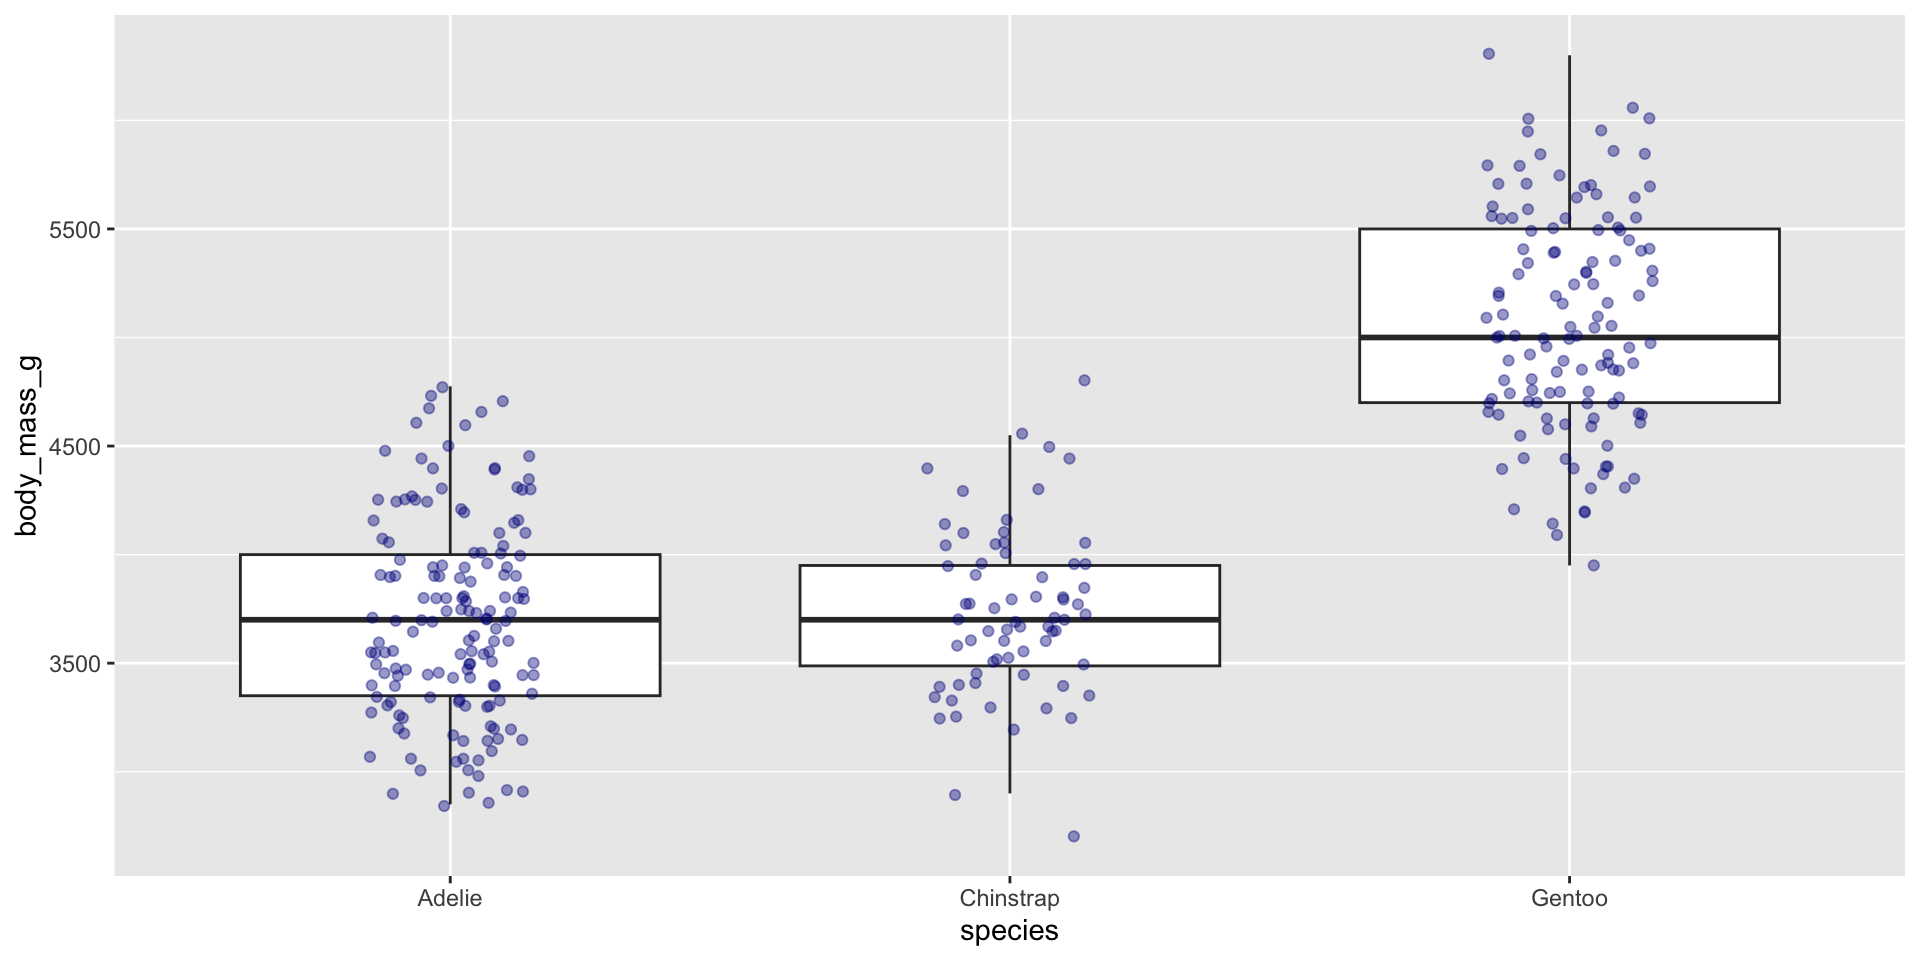
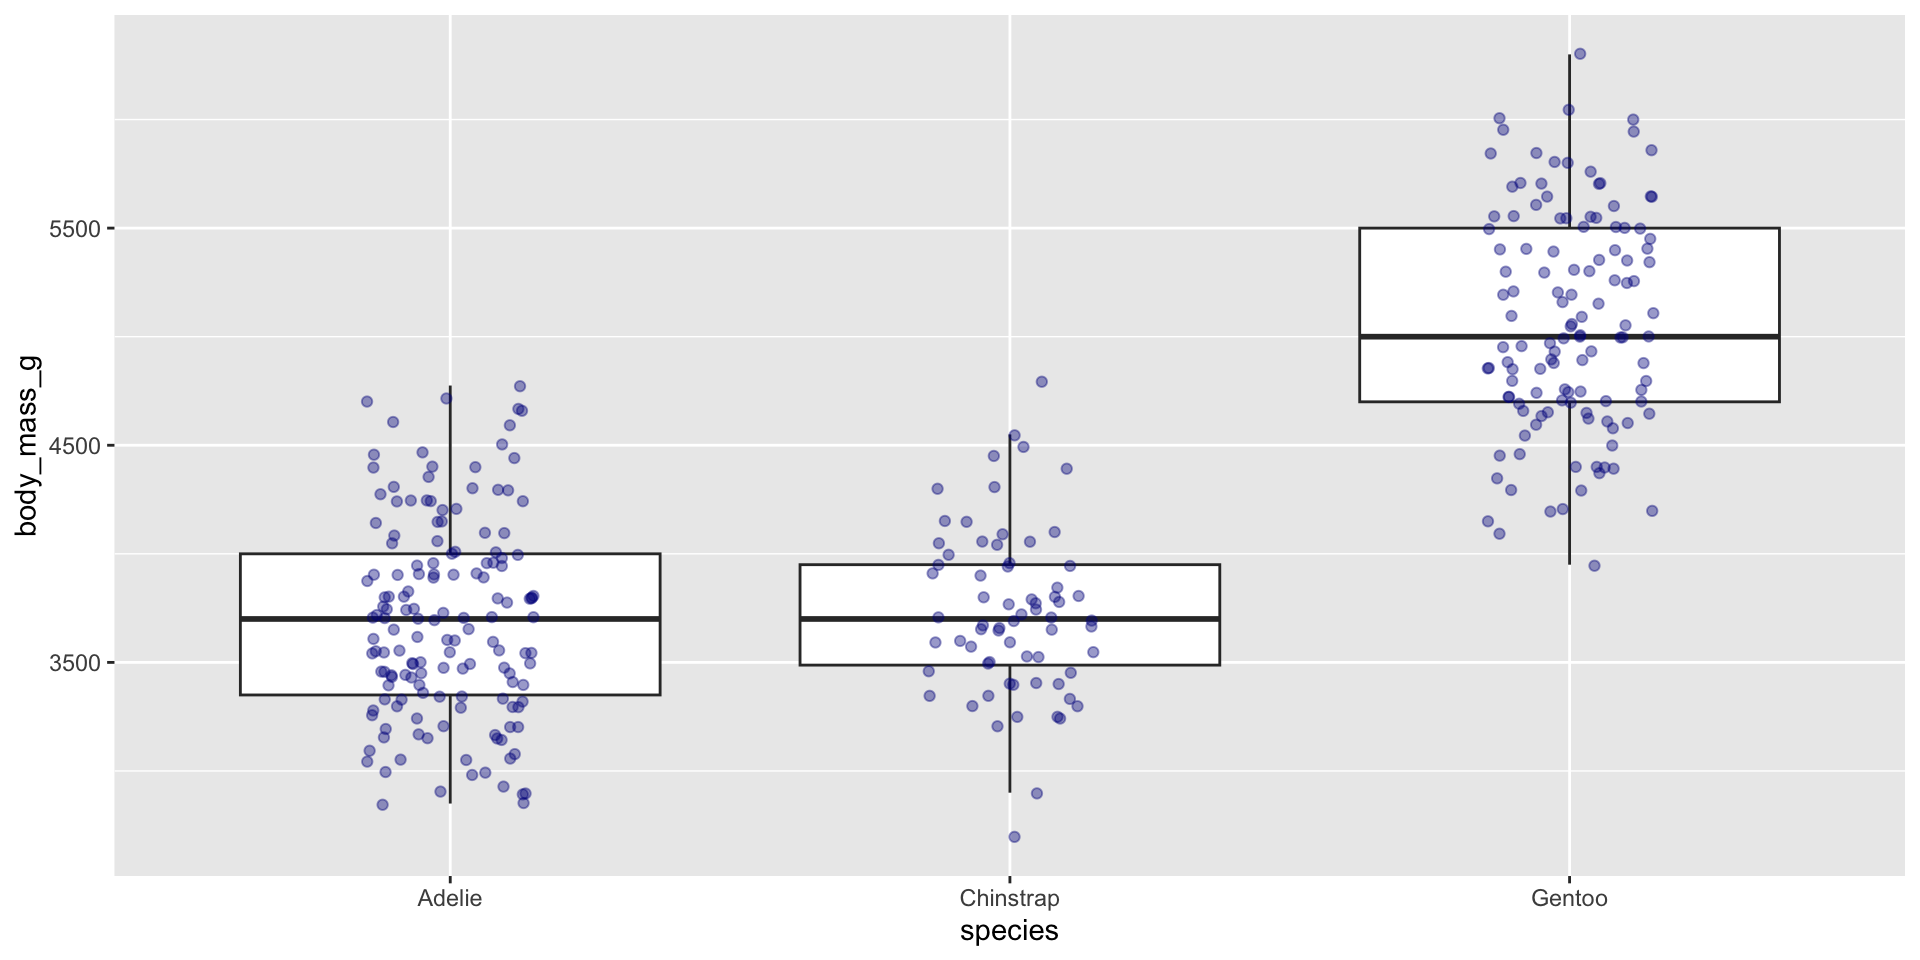
day3 data viz slides added

diff --git a/_site/index.html b/_site/index.html
@@ -177,6 +177,7 @@ window.Quarto = {
   <li><a href="#session" id="toc-session" class="nav-link" data-scroll-target="#session"><span class="header-section-number">1</span> Session</a></li>
   <li><a href="#session-1" id="toc-session-1" class="nav-link" data-scroll-target="#session-1"><span class="header-section-number">2</span> Session</a></li>
   <li><a href="#session-2" id="toc-session-2" class="nav-link" data-scroll-target="#session-2"><span class="header-section-number">3</span> Session</a></li>
+  <li><a href="#session-3" id="toc-session-3" class="nav-link" data-scroll-target="#session-3"><span class="header-section-number">4</span> Session</a></li>
   </ul>
 </nav>
     </div>
@@ -244,6 +245,15 @@ window.Quarto = {
 </section>
 <section id="session-2" class="level2" data-number="3">
 <h2 data-number="3" class="anchored" data-anchor-id="session-2"><span class="header-section-number">3</span> Session</h2>
+    <p><a href="visualization.html" target="_blank">View slides in full screen</a></p>
+       <div class="ratio ratio-16x9">
+      <iframe class="slide-deck" src="visualization.html" height="500px"></iframe>
+    </div>
+  
+<p><br> <br></p>
+</section>
+<section id="session-3" class="level2" data-number="4">
+<h2 data-number="4" class="anchored" data-anchor-id="session-3"><span class="header-section-number">4</span> Session</h2>
     <p><a href="speakers.html" target="_blank">View slides in full screen</a></p>
        <div class="ratio ratio-16x9">
       <iframe class="slide-deck" src="speakers.html" height="500px"></iframe>

diff --git a/_site/visualization.html b/_site/visualization.html
@@ -434,7 +434,7 @@ $ year              &lt;int&gt; 2007, 2007, 2007, 2007, 2007, 2007, 2007, 2007, 
 </div>
 <div class="cell">
 <div class="cell-output-display">
-<countdown-timer class="countdown" id="timer_4e83228d" minutes="5" seconds="0" update-every="1" play-sound="true" tabindex="0" style="top:0;right:0;--countdown-font-size:2em;"></countdown-timer>
+<countdown-timer class="countdown" id="timer_3ebb07fa" minutes="5" seconds="0" update-every="1" play-sound="true" tabindex="0" style="top:0;right:0;--countdown-font-size:2em;"></countdown-timer>
 </div>
 </div>
 </section>
@@ -554,7 +554,7 @@ $ year              &lt;int&gt; 2007, 2007, 2007, 2007, 2007, 2007, 2007, 2007, 
 </div>
 <div class="cell">
 <div class="cell-output-display">
-<countdown-timer class="countdown" id="timer_ade62445" minutes="5" seconds="0" update-every="1" play-sound="true" tabindex="0" style="top:0%;right:0;--countdown-font-size:2em;"></countdown-timer>
+<countdown-timer class="countdown" id="timer_5083ca05" minutes="5" seconds="0" update-every="1" play-sound="true" tabindex="0" style="top:0%;right:0;--countdown-font-size:2em;"></countdown-timer>
 </div>
 </div>
 </section>
@@ -617,7 +617,7 @@ $ year              &lt;int&gt; 2007, 2007, 2007, 2007, 2007, 2007, 2007, 2007, 
 </div>
 <div class="cell">
 <div class="cell-output-display">
-<countdown-timer class="countdown" id="timer_a1406a92" minutes="5" seconds="0" update-every="1" play-sound="true" tabindex="0" style="top:0%;right:0;--countdown-font-size:2em;"></countdown-timer>
+<countdown-timer class="countdown" id="timer_dc67d756" minutes="5" seconds="0" update-every="1" play-sound="true" tabindex="0" style="top:0%;right:0;--countdown-font-size:2em;"></countdown-timer>
 </div>
 </div>
 </section>
@@ -744,7 +744,7 @@ $ year              &lt;int&gt; 2007, 2007, 2007, 2007, 2007, 2007, 2007, 2007, 
 </div>
 <div class="cell">
 <div class="cell-output-display">
-<countdown-timer class="countdown" id="timer_3b38f1b2" minutes="5" seconds="0" update-every="1" play-sound="true" tabindex="0" style="top:0%;right:0;--countdown-font-size:2em;"></countdown-timer>
+<countdown-timer class="countdown" id="timer_41d143ec" minutes="5" seconds="0" update-every="1" play-sound="true" tabindex="0" style="top:0%;right:0;--countdown-font-size:2em;"></countdown-timer>
 </div>
 </div>
 </section>

diff --git a/_site/Session1_GettingStarted.html b/_site/Session1_GettingStarted.html
@@ -11,7 +11,7 @@
   <meta name="generator" content="quarto-1.7.30">
 
   <meta name="author" content="SARA Institute of Data Science">
-  <meta name="dcterms.date" content="2026-07-23">
+  <meta name="dcterms.date" content="2026-07-24">
   <title>SARA | The Non-Profit – Data Visualisation with R</title>
   <meta name="apple-mobile-web-app-capable" content="yes">
   <meta name="apple-mobile-web-app-status-bar-style" content="black-translucent">
@@ -215,7 +215,7 @@ SARA Institute of Data Science
 </div>
 </div>
 
-  <p class="date">2026-07-23</p>
+  <p class="date">2026-07-24</p>
 </section>
 <section id="welcome" class="slide level2 center scrollable">
 <h2>Welcome!</h2>

diff --git a/_site/Session2_GrammarOfGraphics.html b/_site/Session2_GrammarOfGraphics.html
@@ -11,7 +11,7 @@
   <meta name="generator" content="quarto-1.7.30">
 
   <meta name="author" content="SARA Institute of Data Science">
-  <meta name="dcterms.date" content="2026-07-23">
+  <meta name="dcterms.date" content="2026-07-24">
   <title>SARA | The Non-Profit – Data Visualisation with R</title>
   <meta name="apple-mobile-web-app-capable" content="yes">
   <meta name="apple-mobile-web-app-status-bar-style" content="black-translucent">
@@ -215,7 +215,7 @@ SARA Institute of Data Science
 </div>
 </div>
 
-  <p class="date">2026-07-23</p>
+  <p class="date">2026-07-24</p>
 </section>
 <section id="welcome-back" class="slide level2 center">
 <h2>Welcome back!</h2>

diff --git a/_site/Session3_PolishingAndPublishing.html b/_site/Session3_PolishingAndPublishing.html
@@ -11,7 +11,7 @@
   <meta name="generator" content="quarto-1.7.30">
 
   <meta name="author" content="SARA Institute of Data Science">
-  <meta name="dcterms.date" content="2026-07-23">
+  <meta name="dcterms.date" content="2026-07-24">
   <title>SARA | The Non-Profit – Data Visualisation with R</title>
   <meta name="apple-mobile-web-app-capable" content="yes">
   <meta name="apple-mobile-web-app-status-bar-style" content="black-translucent">
@@ -215,7 +215,7 @@ SARA Institute of Data Science
 </div>
 </div>
 
-  <p class="date">2026-07-23</p>
+  <p class="date">2026-07-24</p>
 </section>
 <section id="welcome-back" class="slide level2 center">
 <h2>Welcome back!</h2>

diff --git a/_site/intro.html b/_site/intro.html
@@ -927,7 +927,7 @@
 <h2>Your Turn</h2>
 <div class="cell">
 <div class="cell-output-display">
-<countdown-timer class="countdown" id="timer_775fbec0" minutes="15" seconds="0" update-every="1" play-sound="true" tabindex="0" style="top:0;right:0;"></countdown-timer>
+<countdown-timer class="countdown" id="timer_d613b325" minutes="15" seconds="0" update-every="1" play-sound="true" tabindex="0" style="top:0;right:0;"></countdown-timer>
 </div>
 </div>
 <ul>
@@ -1234,7 +1234,7 @@
 </ol>
 <div class="cell">
 <div class="cell-output-display">
-<countdown-timer class="countdown" id="timer_de60dc17" minutes="10" seconds="0" update-every="1" play-sound="true" tabindex="0" style="top:0;right:0;"></countdown-timer>
+<countdown-timer class="countdown" id="timer_0acd4165" minutes="10" seconds="0" update-every="1" play-sound="true" tabindex="0" style="top:0;right:0;"></countdown-timer>
 </div>
 </div>
 </section>

diff --git a/_site/practice-stats/practice-hypo.html b/_site/practice-stats/practice-hypo.html
@@ -7,7 +7,7 @@
 <meta name="viewport" content="width=device-width, initial-scale=1.0, user-scalable=yes">
 
 <meta name="author" content="Dr.&nbsp;Ajay Koli">
-<meta name="dcterms.date" content="2026-07-23">
+<meta name="dcterms.date" content="2026-07-24">
 
 <title>Practice Sheet Day 5 – SARA | The Non-Profit</title>
 <style>
@@ -255,7 +255,7 @@ window.Quarto = {
     <div>
     <div class="quarto-title-meta-heading">Published</div>
     <div class="quarto-title-meta-contents">
-      <p class="date">July 23, 2026</p>
+      <p class="date">July 24, 2026</p>
     </div>
   </div>
   

diff --git a/_site/practice/practice-hypo.html b/_site/practice/practice-hypo.html
@@ -7,7 +7,7 @@
 <meta name="viewport" content="width=device-width, initial-scale=1.0, user-scalable=yes">
 
 <meta name="author" content="Dr.&nbsp;Ajay Koli">
-<meta name="dcterms.date" content="2026-07-23">
+<meta name="dcterms.date" content="2026-07-24">
 
 <title>Practice Sheet Day 4 – SARA | The Non-Profit</title>
 <style>
@@ -246,7 +246,7 @@ window.Quarto = {
     <div>
     <div class="quarto-title-meta-heading">Published</div>
     <div class="quarto-title-meta-contents">
-      <p class="date">July 23, 2026</p>
+      <p class="date">July 24, 2026</p>
     </div>
   </div>
   

diff --git a/_site/transformation.html b/_site/transformation.html
@@ -415,7 +415,7 @@
 <h2>Your Turn</h2>
 <div class="cell">
 <div class="cell-output-display">
-<countdown-timer class="countdown" id="timer_53be8975" minutes="10" seconds="0" update-every="1" play-sound="true" tabindex="0" style="top:0;right:0;"></countdown-timer>
+<countdown-timer class="countdown" id="timer_6f1784f2" minutes="10" seconds="0" update-every="1" play-sound="true" tabindex="0" style="top:0;right:0;"></countdown-timer>
 </div>
 </div>
 <ol type="1">
@@ -1506,7 +1506,7 @@ $ year              &lt;int&gt; 2007, 2007, 2007, 2007, 2007, 2007, 2007, 2007, 
 <h2>Your Turn</h2>
 <div class="cell">
 <div class="cell-output-display">
-<countdown-timer class="countdown" id="timer_2a588239" minutes="10" seconds="0" update-every="1" play-sound="true" tabindex="0" style="top:0;right:0;"></countdown-timer>
+<countdown-timer class="countdown" id="timer_620d1aa0" minutes="10" seconds="0" update-every="1" play-sound="true" tabindex="0" style="top:0;right:0;"></countdown-timer>
 </div>
 </div>
 <ul>